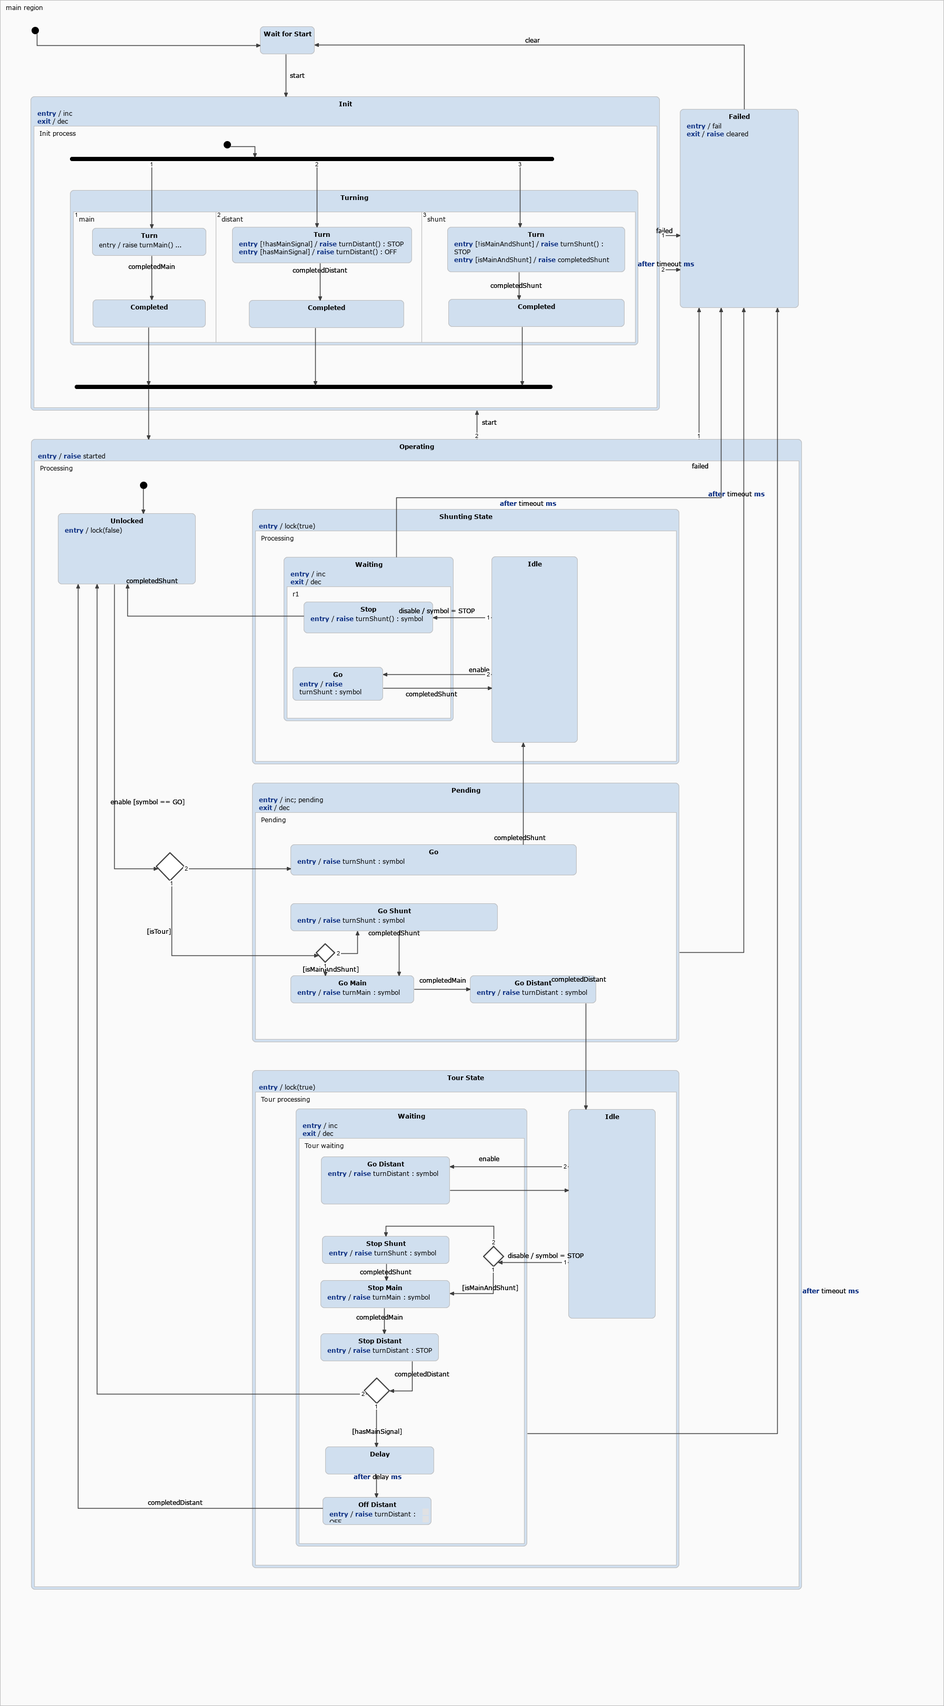
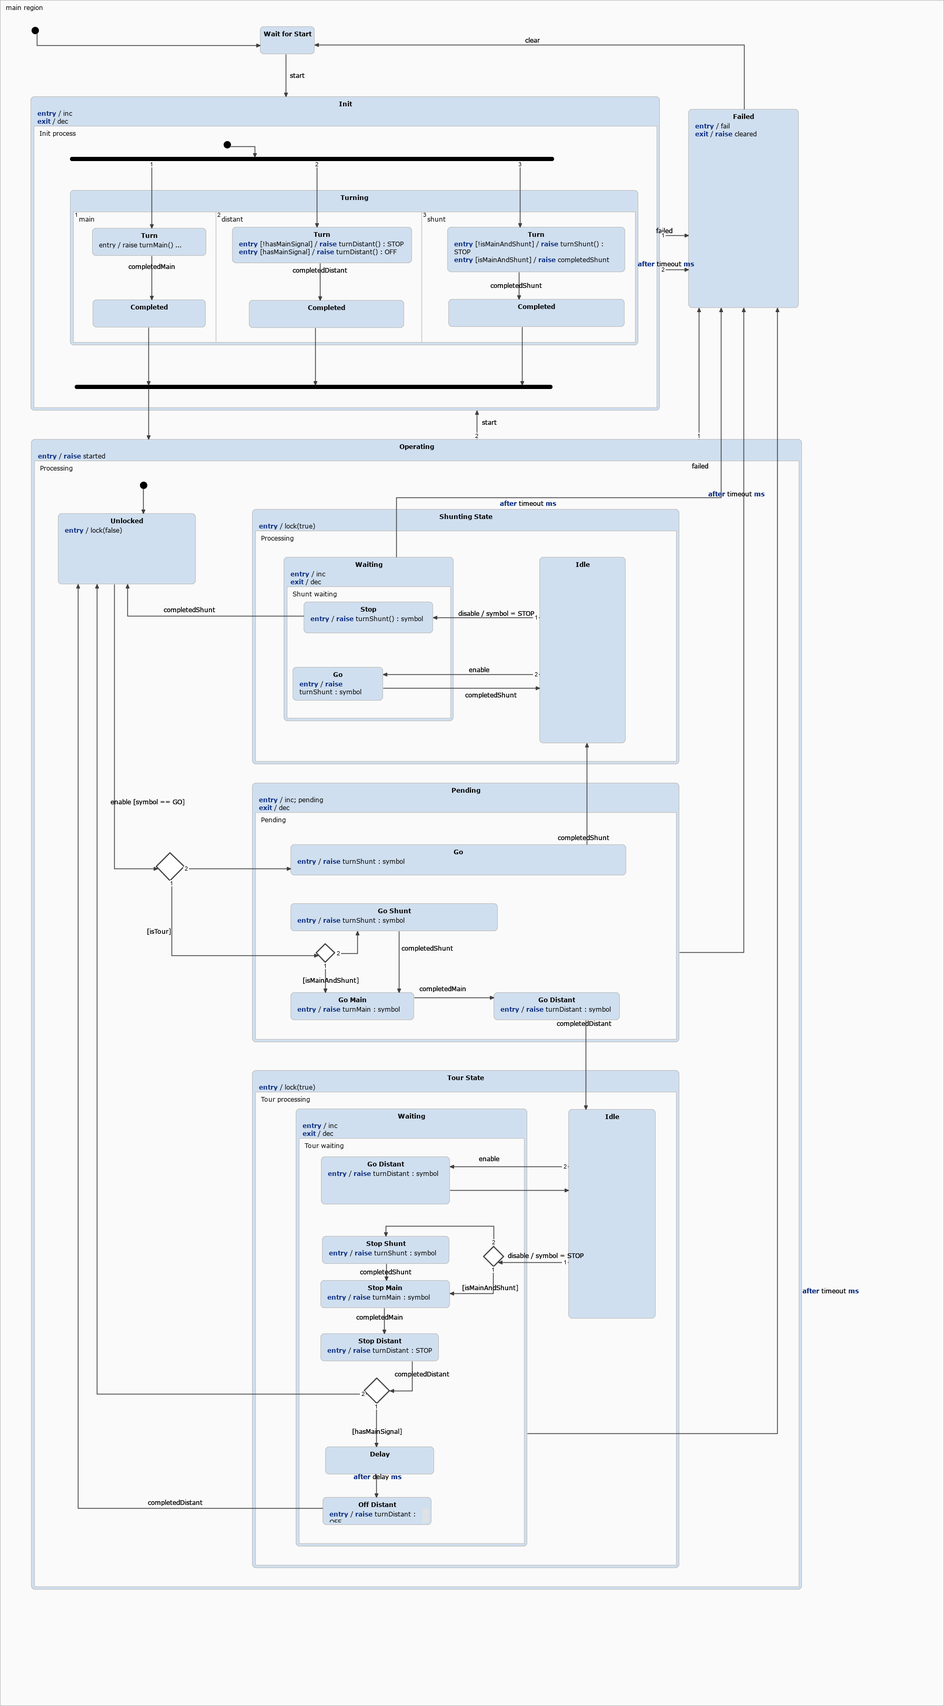
Corrected layout a little bit.

diff --git a/statecharts/SignalControllerStatechart.cpp b/statecharts/SignalControllerStatechart.cpp
@@ -326,7 +326,7 @@ namespace mrw
 				}
 			case mrw::statechart::SignalControllerStatechart::State::main_region_Operating_Processing_Shunting_State :
 				{
-					return  (stateConfVector[scvi_main_region_Operating_Processing_Shunting_State] >= mrw::statechart::SignalControllerStatechart::State::main_region_Operating_Processing_Shunting_State && stateConfVector[scvi_main_region_Operating_Processing_Shunting_State] <= mrw::statechart::SignalControllerStatechart::State::main_region_Operating_Processing_Shunting_State_Processing_Waiting_r1_Stop);
+					return  (stateConfVector[scvi_main_region_Operating_Processing_Shunting_State] >= mrw::statechart::SignalControllerStatechart::State::main_region_Operating_Processing_Shunting_State && stateConfVector[scvi_main_region_Operating_Processing_Shunting_State] <= mrw::statechart::SignalControllerStatechart::State::main_region_Operating_Processing_Shunting_State_Processing_Waiting_Shunt_waiting_Stop);
 					break;
 				}
 			case mrw::statechart::SignalControllerStatechart::State::main_region_Operating_Processing_Shunting_State_Processing_Idle :
@@ -336,17 +336,17 @@ namespace mrw
 				}
 			case mrw::statechart::SignalControllerStatechart::State::main_region_Operating_Processing_Shunting_State_Processing_Waiting :
 				{
-					return  (stateConfVector[scvi_main_region_Operating_Processing_Shunting_State_Processing_Waiting] >= mrw::statechart::SignalControllerStatechart::State::main_region_Operating_Processing_Shunting_State_Processing_Waiting && stateConfVector[scvi_main_region_Operating_Processing_Shunting_State_Processing_Waiting] <= mrw::statechart::SignalControllerStatechart::State::main_region_Operating_Processing_Shunting_State_Processing_Waiting_r1_Stop);
+					return  (stateConfVector[scvi_main_region_Operating_Processing_Shunting_State_Processing_Waiting] >= mrw::statechart::SignalControllerStatechart::State::main_region_Operating_Processing_Shunting_State_Processing_Waiting && stateConfVector[scvi_main_region_Operating_Processing_Shunting_State_Processing_Waiting] <= mrw::statechart::SignalControllerStatechart::State::main_region_Operating_Processing_Shunting_State_Processing_Waiting_Shunt_waiting_Stop);
 					break;
 				}
-			case mrw::statechart::SignalControllerStatechart::State::main_region_Operating_Processing_Shunting_State_Processing_Waiting_r1_Go :
+			case mrw::statechart::SignalControllerStatechart::State::main_region_Operating_Processing_Shunting_State_Processing_Waiting_Shunt_waiting_Go :
 				{
-					return  (stateConfVector[scvi_main_region_Operating_Processing_Shunting_State_Processing_Waiting_r1_Go] == mrw::statechart::SignalControllerStatechart::State::main_region_Operating_Processing_Shunting_State_Processing_Waiting_r1_Go);
+					return  (stateConfVector[scvi_main_region_Operating_Processing_Shunting_State_Processing_Waiting_Shunt_waiting_Go] == mrw::statechart::SignalControllerStatechart::State::main_region_Operating_Processing_Shunting_State_Processing_Waiting_Shunt_waiting_Go);
 					break;
 				}
-			case mrw::statechart::SignalControllerStatechart::State::main_region_Operating_Processing_Shunting_State_Processing_Waiting_r1_Stop :
+			case mrw::statechart::SignalControllerStatechart::State::main_region_Operating_Processing_Shunting_State_Processing_Waiting_Shunt_waiting_Stop :
 				{
-					return  (stateConfVector[scvi_main_region_Operating_Processing_Shunting_State_Processing_Waiting_r1_Stop] == mrw::statechart::SignalControllerStatechart::State::main_region_Operating_Processing_Shunting_State_Processing_Waiting_r1_Stop);
+					return  (stateConfVector[scvi_main_region_Operating_Processing_Shunting_State_Processing_Waiting_Shunt_waiting_Stop] == mrw::statechart::SignalControllerStatechart::State::main_region_Operating_Processing_Shunting_State_Processing_Waiting_Shunt_waiting_Stop);
 					break;
 				}
 			case mrw::statechart::SignalControllerStatechart::State::main_region_Operating_Processing_Tour_State :
@@ -561,7 +561,7 @@ namespace mrw
 		}
 
 		/* Entry action for state 'Go'. */
-		void SignalControllerStatechart::enact_main_region_Operating_Processing_Shunting_State_Processing_Waiting_r1_Go()
+		void SignalControllerStatechart::enact_main_region_Operating_Processing_Shunting_State_Processing_Waiting_Shunt_waiting_Go()
 		{
 			/* Entry action for state 'Go'. */
 			turnShunt_value = symbol;
@@ -569,7 +569,7 @@ namespace mrw
 		}
 
 		/* Entry action for state 'Stop'. */
-		void SignalControllerStatechart::enact_main_region_Operating_Processing_Shunting_State_Processing_Waiting_r1_Stop()
+		void SignalControllerStatechart::enact_main_region_Operating_Processing_Shunting_State_Processing_Waiting_Shunt_waiting_Stop()
 		{
 			/* Entry action for state 'Stop'. */
 			turnShunt_value = symbol;
@@ -834,21 +834,21 @@ namespace mrw
 		}
 
 		/* 'default' enter sequence for state Go */
-		void SignalControllerStatechart::enseq_main_region_Operating_Processing_Shunting_State_Processing_Waiting_r1_Go_default()
+		void SignalControllerStatechart::enseq_main_region_Operating_Processing_Shunting_State_Processing_Waiting_Shunt_waiting_Go_default()
 		{
 			/* 'default' enter sequence for state Go */
-			enact_main_region_Operating_Processing_Shunting_State_Processing_Waiting_r1_Go();
-			stateConfVector[0] = mrw::statechart::SignalControllerStatechart::State::main_region_Operating_Processing_Shunting_State_Processing_Waiting_r1_Go;
+			enact_main_region_Operating_Processing_Shunting_State_Processing_Waiting_Shunt_waiting_Go();
+			stateConfVector[0] = mrw::statechart::SignalControllerStatechart::State::main_region_Operating_Processing_Shunting_State_Processing_Waiting_Shunt_waiting_Go;
 			stateConfVectorPosition = 0;
 			stateConfVectorChanged = true;
 		}
 
 		/* 'default' enter sequence for state Stop */
-		void SignalControllerStatechart::enseq_main_region_Operating_Processing_Shunting_State_Processing_Waiting_r1_Stop_default()
+		void SignalControllerStatechart::enseq_main_region_Operating_Processing_Shunting_State_Processing_Waiting_Shunt_waiting_Stop_default()
 		{
 			/* 'default' enter sequence for state Stop */
-			enact_main_region_Operating_Processing_Shunting_State_Processing_Waiting_r1_Stop();
-			stateConfVector[0] = mrw::statechart::SignalControllerStatechart::State::main_region_Operating_Processing_Shunting_State_Processing_Waiting_r1_Stop;
+			enact_main_region_Operating_Processing_Shunting_State_Processing_Waiting_Shunt_waiting_Stop();
+			stateConfVector[0] = mrw::statechart::SignalControllerStatechart::State::main_region_Operating_Processing_Shunting_State_Processing_Waiting_Shunt_waiting_Stop;
 			stateConfVectorPosition = 0;
 			stateConfVectorChanged = true;
 		}
@@ -1100,12 +1100,12 @@ namespace mrw
 		void SignalControllerStatechart::exseq_main_region_Operating_Processing_Shunting_State_Processing_Waiting()
 		{
 			/* Default exit sequence for state Waiting */
-			exseq_main_region_Operating_Processing_Shunting_State_Processing_Waiting_r1();
+			exseq_main_region_Operating_Processing_Shunting_State_Processing_Waiting_Shunt_waiting();
 			exact_main_region_Operating_Processing_Shunting_State_Processing_Waiting();
 		}
 
 		/* Default exit sequence for state Go */
-		void SignalControllerStatechart::exseq_main_region_Operating_Processing_Shunting_State_Processing_Waiting_r1_Go()
+		void SignalControllerStatechart::exseq_main_region_Operating_Processing_Shunting_State_Processing_Waiting_Shunt_waiting_Go()
 		{
 			/* Default exit sequence for state Go */
 			stateConfVector[0] = mrw::statechart::SignalControllerStatechart::State::NO_STATE;
@@ -1113,7 +1113,7 @@ namespace mrw
 		}
 
 		/* Default exit sequence for state Stop */
-		void SignalControllerStatechart::exseq_main_region_Operating_Processing_Shunting_State_Processing_Waiting_r1_Stop()
+		void SignalControllerStatechart::exseq_main_region_Operating_Processing_Shunting_State_Processing_Waiting_Shunt_waiting_Stop()
 		{
 			/* Default exit sequence for state Stop */
 			stateConfVector[0] = mrw::statechart::SignalControllerStatechart::State::NO_STATE;
@@ -1265,15 +1265,15 @@ namespace mrw
 					exseq_main_region_Operating_Processing_Shunting_State_Processing_Idle();
 					break;
 				}
-			case mrw::statechart::SignalControllerStatechart::State::main_region_Operating_Processing_Shunting_State_Processing_Waiting_r1_Go :
+			case mrw::statechart::SignalControllerStatechart::State::main_region_Operating_Processing_Shunting_State_Processing_Waiting_Shunt_waiting_Go :
 				{
-					exseq_main_region_Operating_Processing_Shunting_State_Processing_Waiting_r1_Go();
+					exseq_main_region_Operating_Processing_Shunting_State_Processing_Waiting_Shunt_waiting_Go();
 					exact_main_region_Operating_Processing_Shunting_State_Processing_Waiting();
 					break;
 				}
-			case mrw::statechart::SignalControllerStatechart::State::main_region_Operating_Processing_Shunting_State_Processing_Waiting_r1_Stop :
+			case mrw::statechart::SignalControllerStatechart::State::main_region_Operating_Processing_Shunting_State_Processing_Waiting_Shunt_waiting_Stop :
 				{
-					exseq_main_region_Operating_Processing_Shunting_State_Processing_Waiting_r1_Stop();
+					exseq_main_region_Operating_Processing_Shunting_State_Processing_Waiting_Shunt_waiting_Stop();
 					exact_main_region_Operating_Processing_Shunting_State_Processing_Waiting();
 					break;
 				}
@@ -1532,15 +1532,15 @@ namespace mrw
 					exseq_main_region_Operating_Processing_Shunting_State_Processing_Idle();
 					break;
 				}
-			case mrw::statechart::SignalControllerStatechart::State::main_region_Operating_Processing_Shunting_State_Processing_Waiting_r1_Go :
+			case mrw::statechart::SignalControllerStatechart::State::main_region_Operating_Processing_Shunting_State_Processing_Waiting_Shunt_waiting_Go :
 				{
-					exseq_main_region_Operating_Processing_Shunting_State_Processing_Waiting_r1_Go();
+					exseq_main_region_Operating_Processing_Shunting_State_Processing_Waiting_Shunt_waiting_Go();
 					exact_main_region_Operating_Processing_Shunting_State_Processing_Waiting();
 					break;
 				}
-			case mrw::statechart::SignalControllerStatechart::State::main_region_Operating_Processing_Shunting_State_Processing_Waiting_r1_Stop :
+			case mrw::statechart::SignalControllerStatechart::State::main_region_Operating_Processing_Shunting_State_Processing_Waiting_Shunt_waiting_Stop :
 				{
-					exseq_main_region_Operating_Processing_Shunting_State_Processing_Waiting_r1_Stop();
+					exseq_main_region_Operating_Processing_Shunting_State_Processing_Waiting_Shunt_waiting_Stop();
 					exact_main_region_Operating_Processing_Shunting_State_Processing_Waiting();
 					break;
 				}
@@ -1627,15 +1627,15 @@ namespace mrw
 					exseq_main_region_Operating_Processing_Shunting_State_Processing_Idle();
 					break;
 				}
-			case mrw::statechart::SignalControllerStatechart::State::main_region_Operating_Processing_Shunting_State_Processing_Waiting_r1_Go :
+			case mrw::statechart::SignalControllerStatechart::State::main_region_Operating_Processing_Shunting_State_Processing_Waiting_Shunt_waiting_Go :
 				{
-					exseq_main_region_Operating_Processing_Shunting_State_Processing_Waiting_r1_Go();
+					exseq_main_region_Operating_Processing_Shunting_State_Processing_Waiting_Shunt_waiting_Go();
 					exact_main_region_Operating_Processing_Shunting_State_Processing_Waiting();
 					break;
 				}
-			case mrw::statechart::SignalControllerStatechart::State::main_region_Operating_Processing_Shunting_State_Processing_Waiting_r1_Stop :
+			case mrw::statechart::SignalControllerStatechart::State::main_region_Operating_Processing_Shunting_State_Processing_Waiting_Shunt_waiting_Stop :
 				{
-					exseq_main_region_Operating_Processing_Shunting_State_Processing_Waiting_r1_Stop();
+					exseq_main_region_Operating_Processing_Shunting_State_Processing_Waiting_Shunt_waiting_Stop();
 					exact_main_region_Operating_Processing_Shunting_State_Processing_Waiting();
 					break;
 				}
@@ -1645,21 +1645,21 @@ namespace mrw
 			}
 		}
 
-		/* Default exit sequence for region r1 */
-		void SignalControllerStatechart::exseq_main_region_Operating_Processing_Shunting_State_Processing_Waiting_r1()
+		/* Default exit sequence for region Shunt waiting */
+		void SignalControllerStatechart::exseq_main_region_Operating_Processing_Shunting_State_Processing_Waiting_Shunt_waiting()
 		{
-			/* Default exit sequence for region r1 */
-			/* Handle exit of all possible states (of mrw.statechart.SignalControllerStatechart.main_region.Operating.Processing.Shunting_State.Processing.Waiting.r1) at position 0... */
+			/* Default exit sequence for region Shunt waiting */
+			/* Handle exit of all possible states (of mrw.statechart.SignalControllerStatechart.main_region.Operating.Processing.Shunting_State.Processing.Waiting.Shunt_waiting) at position 0... */
 			switch (stateConfVector[ 0 ])
 			{
-			case mrw::statechart::SignalControllerStatechart::State::main_region_Operating_Processing_Shunting_State_Processing_Waiting_r1_Go :
+			case mrw::statechart::SignalControllerStatechart::State::main_region_Operating_Processing_Shunting_State_Processing_Waiting_Shunt_waiting_Go :
 				{
-					exseq_main_region_Operating_Processing_Shunting_State_Processing_Waiting_r1_Go();
+					exseq_main_region_Operating_Processing_Shunting_State_Processing_Waiting_Shunt_waiting_Go();
 					break;
 				}
-			case mrw::statechart::SignalControllerStatechart::State::main_region_Operating_Processing_Shunting_State_Processing_Waiting_r1_Stop :
+			case mrw::statechart::SignalControllerStatechart::State::main_region_Operating_Processing_Shunting_State_Processing_Waiting_Shunt_waiting_Stop :
 				{
-					exseq_main_region_Operating_Processing_Shunting_State_Processing_Waiting_r1_Stop();
+					exseq_main_region_Operating_Processing_Shunting_State_Processing_Waiting_Shunt_waiting_Stop();
 					break;
 				}
 			default:
@@ -2197,7 +2197,7 @@ namespace mrw
 						exseq_main_region_Operating_Processing_Shunting_State_Processing_Idle();
 						symbol = SignalControllerStatechart::STOP;
 						enact_main_region_Operating_Processing_Shunting_State_Processing_Waiting();
-						enseq_main_region_Operating_Processing_Shunting_State_Processing_Waiting_r1_Stop_default();
+						enseq_main_region_Operating_Processing_Shunting_State_Processing_Waiting_Shunt_waiting_Stop_default();
 						main_region_Operating_Processing_Shunting_State_react(0);
 						transitioned_after = 0;
 					}
@@ -2207,7 +2207,7 @@ namespace mrw
 						{
 							exseq_main_region_Operating_Processing_Shunting_State_Processing_Idle();
 							enact_main_region_Operating_Processing_Shunting_State_Processing_Waiting();
-							enseq_main_region_Operating_Processing_Shunting_State_Processing_Waiting_r1_Go_default();
+							enseq_main_region_Operating_Processing_Shunting_State_Processing_Waiting_Shunt_waiting_Go_default();
 							main_region_Operating_Processing_Shunting_State_react(0);
 							transitioned_after = 0;
 						}
@@ -2248,7 +2248,7 @@ namespace mrw
 			return transitioned_after;
 		}
 
-		sc::integer SignalControllerStatechart::main_region_Operating_Processing_Shunting_State_Processing_Waiting_r1_Go_react(const sc::integer transitioned_before)
+		sc::integer SignalControllerStatechart::main_region_Operating_Processing_Shunting_State_Processing_Waiting_Shunt_waiting_Go_react(const sc::integer transitioned_before)
 		{
 			/* The reactions of state Go. */
 			sc::integer transitioned_after = transitioned_before;
@@ -2273,7 +2273,7 @@ namespace mrw
 			return transitioned_after;
 		}
 
-		sc::integer SignalControllerStatechart::main_region_Operating_Processing_Shunting_State_Processing_Waiting_r1_Stop_react(const sc::integer transitioned_before)
+		sc::integer SignalControllerStatechart::main_region_Operating_Processing_Shunting_State_Processing_Waiting_Shunt_waiting_Stop_react(const sc::integer transitioned_before)
 		{
 			/* The reactions of state Stop. */
 			sc::integer transitioned_after = transitioned_before;
@@ -2736,14 +2736,14 @@ namespace mrw
 					transitioned = main_region_Operating_Processing_Shunting_State_Processing_Idle_react(transitioned);
 					break;
 				}
-			case mrw::statechart::SignalControllerStatechart::State::main_region_Operating_Processing_Shunting_State_Processing_Waiting_r1_Go :
+			case mrw::statechart::SignalControllerStatechart::State::main_region_Operating_Processing_Shunting_State_Processing_Waiting_Shunt_waiting_Go :
 				{
-					transitioned = main_region_Operating_Processing_Shunting_State_Processing_Waiting_r1_Go_react(transitioned);
+					transitioned = main_region_Operating_Processing_Shunting_State_Processing_Waiting_Shunt_waiting_Go_react(transitioned);
 					break;
 				}
-			case mrw::statechart::SignalControllerStatechart::State::main_region_Operating_Processing_Shunting_State_Processing_Waiting_r1_Stop :
+			case mrw::statechart::SignalControllerStatechart::State::main_region_Operating_Processing_Shunting_State_Processing_Waiting_Shunt_waiting_Stop :
 				{
-					transitioned = main_region_Operating_Processing_Shunting_State_Processing_Waiting_r1_Stop_react(transitioned);
+					transitioned = main_region_Operating_Processing_Shunting_State_Processing_Waiting_Shunt_waiting_Stop_react(transitioned);
 					break;
 				}
 			case mrw::statechart::SignalControllerStatechart::State::main_region_Operating_Processing_Tour_State_Tour_processing_Waiting_Tour_waiting_Stop_Main :

diff --git a/statecharts/SignalControllerStatechart.h b/statecharts/SignalControllerStatechart.h
@@ -64,8 +64,8 @@ namespace mrw
 				main_region_Operating_Processing_Shunting_State,
 				main_region_Operating_Processing_Shunting_State_Processing_Idle,
 				main_region_Operating_Processing_Shunting_State_Processing_Waiting,
-				main_region_Operating_Processing_Shunting_State_Processing_Waiting_r1_Go,
-				main_region_Operating_Processing_Shunting_State_Processing_Waiting_r1_Stop,
+				main_region_Operating_Processing_Shunting_State_Processing_Waiting_Shunt_waiting_Go,
+				main_region_Operating_Processing_Shunting_State_Processing_Waiting_Shunt_waiting_Stop,
 				main_region_Operating_Processing_Tour_State,
 				main_region_Operating_Processing_Tour_State_Tour_processing_Waiting,
 				main_region_Operating_Processing_Tour_State_Tour_processing_Waiting_Tour_waiting_Stop_Main,
@@ -99,8 +99,8 @@ namespace mrw
 			static const sc::integer scvi_main_region_Operating_Processing_Shunting_State = 0;
 			static const sc::integer scvi_main_region_Operating_Processing_Shunting_State_Processing_Idle = 0;
 			static const sc::integer scvi_main_region_Operating_Processing_Shunting_State_Processing_Waiting = 0;
-			static const sc::integer scvi_main_region_Operating_Processing_Shunting_State_Processing_Waiting_r1_Go = 0;
-			static const sc::integer scvi_main_region_Operating_Processing_Shunting_State_Processing_Waiting_r1_Stop = 0;
+			static const sc::integer scvi_main_region_Operating_Processing_Shunting_State_Processing_Waiting_Shunt_waiting_Go = 0;
+			static const sc::integer scvi_main_region_Operating_Processing_Shunting_State_Processing_Waiting_Shunt_waiting_Stop = 0;
 			static const sc::integer scvi_main_region_Operating_Processing_Tour_State = 0;
 			static const sc::integer scvi_main_region_Operating_Processing_Tour_State_Tour_processing_Waiting = 0;
 			static const sc::integer scvi_main_region_Operating_Processing_Tour_State_Tour_processing_Waiting_Tour_waiting_Stop_Main = 0;
@@ -347,8 +347,8 @@ namespace mrw
 			void enact_main_region_Operating_Processing_Unlocked();
 			void enact_main_region_Operating_Processing_Shunting_State();
 			void enact_main_region_Operating_Processing_Shunting_State_Processing_Waiting();
-			void enact_main_region_Operating_Processing_Shunting_State_Processing_Waiting_r1_Go();
-			void enact_main_region_Operating_Processing_Shunting_State_Processing_Waiting_r1_Stop();
+			void enact_main_region_Operating_Processing_Shunting_State_Processing_Waiting_Shunt_waiting_Go();
+			void enact_main_region_Operating_Processing_Shunting_State_Processing_Waiting_Shunt_waiting_Stop();
 			void enact_main_region_Operating_Processing_Tour_State();
 			void enact_main_region_Operating_Processing_Tour_State_Tour_processing_Waiting();
 			void enact_main_region_Operating_Processing_Tour_State_Tour_processing_Waiting_Tour_waiting_Stop_Main();
@@ -380,8 +380,8 @@ namespace mrw
 			void enseq_main_region_Operating_default();
 			void enseq_main_region_Operating_Processing_Unlocked_default();
 			void enseq_main_region_Operating_Processing_Shunting_State_Processing_Idle_default();
-			void enseq_main_region_Operating_Processing_Shunting_State_Processing_Waiting_r1_Go_default();
-			void enseq_main_region_Operating_Processing_Shunting_State_Processing_Waiting_r1_Stop_default();
+			void enseq_main_region_Operating_Processing_Shunting_State_Processing_Waiting_Shunt_waiting_Go_default();
+			void enseq_main_region_Operating_Processing_Shunting_State_Processing_Waiting_Shunt_waiting_Stop_default();
 			void enseq_main_region_Operating_Processing_Tour_State_Tour_processing_Waiting_Tour_waiting_Stop_Main_default();
 			void enseq_main_region_Operating_Processing_Tour_State_Tour_processing_Waiting_Tour_waiting_Stop_Distant_default();
 			void enseq_main_region_Operating_Processing_Tour_State_Tour_processing_Waiting_Tour_waiting_Off_Distant_default();
@@ -411,8 +411,8 @@ namespace mrw
 			void exseq_main_region_Operating_Processing_Shunting_State();
 			void exseq_main_region_Operating_Processing_Shunting_State_Processing_Idle();
 			void exseq_main_region_Operating_Processing_Shunting_State_Processing_Waiting();
-			void exseq_main_region_Operating_Processing_Shunting_State_Processing_Waiting_r1_Go();
-			void exseq_main_region_Operating_Processing_Shunting_State_Processing_Waiting_r1_Stop();
+			void exseq_main_region_Operating_Processing_Shunting_State_Processing_Waiting_Shunt_waiting_Go();
+			void exseq_main_region_Operating_Processing_Shunting_State_Processing_Waiting_Shunt_waiting_Stop();
 			void exseq_main_region_Operating_Processing_Tour_State();
 			void exseq_main_region_Operating_Processing_Tour_State_Tour_processing_Waiting_Tour_waiting_Stop_Main();
 			void exseq_main_region_Operating_Processing_Tour_State_Tour_processing_Waiting_Tour_waiting_Stop_Distant();
@@ -434,7 +434,7 @@ namespace mrw
 			void exseq_main_region_Init_Init_process_Turning_shunt();
 			void exseq_main_region_Operating_Processing();
 			void exseq_main_region_Operating_Processing_Shunting_State_Processing();
-			void exseq_main_region_Operating_Processing_Shunting_State_Processing_Waiting_r1();
+			void exseq_main_region_Operating_Processing_Shunting_State_Processing_Waiting_Shunt_waiting();
 			void exseq_main_region_Operating_Processing_Tour_State_Tour_processing();
 			void exseq_main_region_Operating_Processing_Tour_State_Tour_processing_Waiting_Tour_waiting();
 			void exseq_main_region_Operating_Processing_Pending_Pending();
@@ -462,8 +462,8 @@ namespace mrw
 			sc::integer main_region_Operating_Processing_Shunting_State_react(const sc::integer transitioned_before);
 			sc::integer main_region_Operating_Processing_Shunting_State_Processing_Idle_react(const sc::integer transitioned_before);
 			sc::integer main_region_Operating_Processing_Shunting_State_Processing_Waiting_react(const sc::integer transitioned_before);
-			sc::integer main_region_Operating_Processing_Shunting_State_Processing_Waiting_r1_Go_react(const sc::integer transitioned_before);
-			sc::integer main_region_Operating_Processing_Shunting_State_Processing_Waiting_r1_Stop_react(const sc::integer transitioned_before);
+			sc::integer main_region_Operating_Processing_Shunting_State_Processing_Waiting_Shunt_waiting_Go_react(const sc::integer transitioned_before);
+			sc::integer main_region_Operating_Processing_Shunting_State_Processing_Waiting_Shunt_waiting_Stop_react(const sc::integer transitioned_before);
 			sc::integer main_region_Operating_Processing_Tour_State_react(const sc::integer transitioned_before);
 			sc::integer main_region_Operating_Processing_Tour_State_Tour_processing_Waiting_react(const sc::integer transitioned_before);
 			sc::integer main_region_Operating_Processing_Tour_State_Tour_processing_Waiting_Tour_waiting_Stop_Main_react(const sc::integer transitioned_before);
